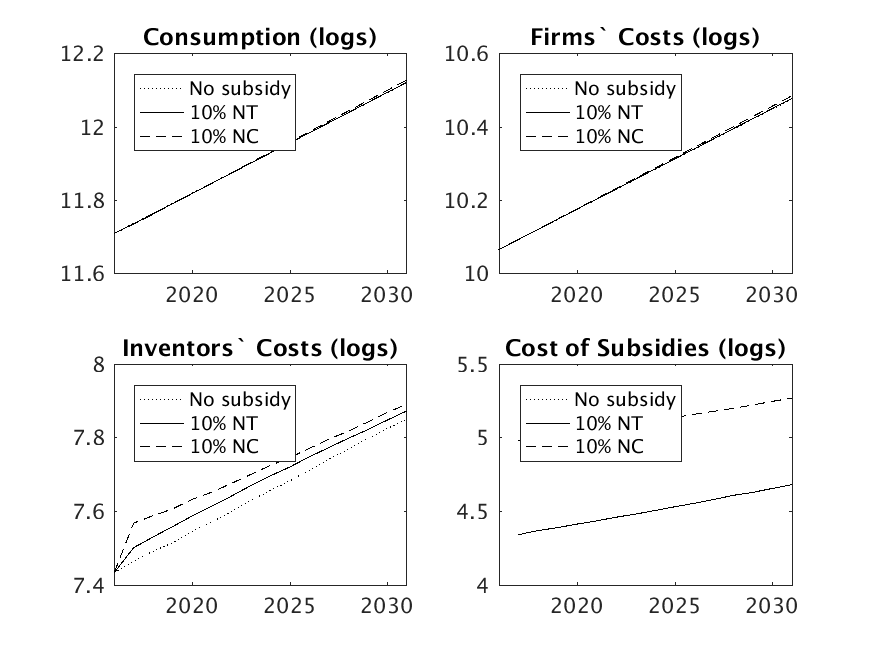
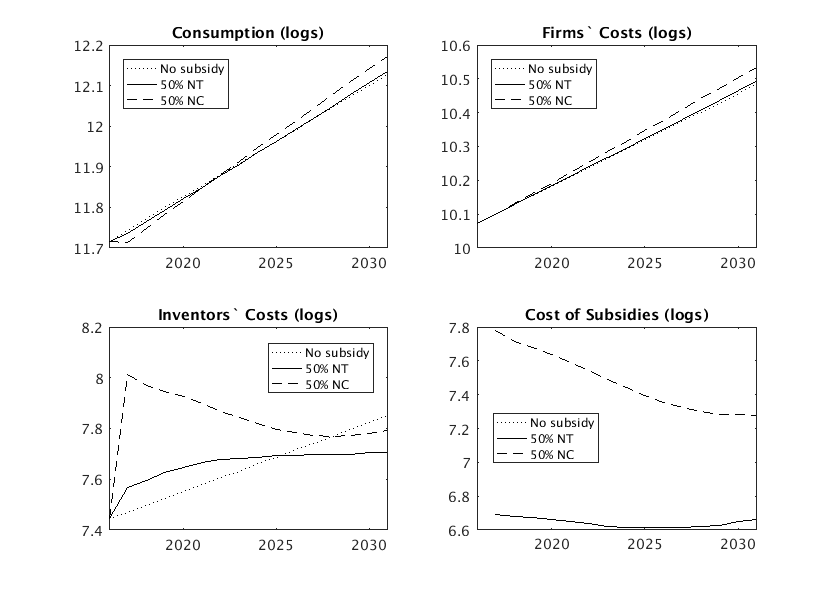
new figures for 15 years

diff --git a/simulations/consolidated/run_simulation.m b/simulations/consolidated/run_simulation.m
@@ -35,7 +35,7 @@ params = v2struct(etaH, etaM, etaL, tau, phi, lambda, kappa, xi, zeta, gamma, ep
 beg_inv = exp(6);       % number of inventors, chosen to match initial number of patents
 beg_year = 1836;        % beginning year
 Tbase = 180;            % number of periods to run baseline simulation
-Tsubs = 5;             % number of periods to run subsidy simulation
+Tsubs = 15;             % number of periods to run subsidy simulation
 Tmax = Tbase + Tsubs;
 
 %% RUN THE MODEL
@@ -258,14 +258,14 @@ saveas(gcf, 'files/figures/welfare_gains.png')
 
 % Summary of Economy with Subsidies
 
-index = find(subsidy_vals == .1);   % effect of a 10% subsidy
+index = find(subsidy_vals == .5);   % effect of a 50% subsidy
 index2 = index + length(subsidy_vals);
 substime = logical([zeros(Tbase-1,1); ones(Tsubs+1,1)]);
 
 figure(6)
 plot(periods(substime), growth(substime), ':k', periods(substime), growth_subs(substime,index), '-k', periods(substime), growth_subs(substime,index2), '--k')
 xlim([min(periods(substime)), max(periods(substime))])
-legend('No subsidy', '10% NT', '10% NC', 'location', 'Northwest')
+legend('No subsidy', '50% NT', '50% NC', 'location', 'Northwest')
 title('Rate of Growth')
 saveas(gcf, 'files/figures/growth_subs.png')
 
@@ -273,22 +273,22 @@ figure(7)
 subplot(2,2,1)
 plot(periods(substime), log(consumption(substime)), ':k', periods(substime), log(consumption_subs(substime,index)), '-k', periods(substime), log(consumption_subs(substime,index2)), '--k')
 xlim([min(periods(substime)), max(periods(substime))])
-legend('No subsidy', '10% NT', '10% NC', 'location','Northwest')
+legend('No subsidy', '50% NT', '50% NC', 'location','Northwest')
 title('Consumption (logs)')
 subplot(2,2,2)
 plot(periods(substime), log(firm_cost(substime)), ':k', periods(substime), log(firm_cost_subs(substime,index)), '-k', periods(substime), log(firm_cost_subs(substime,index2)), '--k')
 xlim([min(periods(substime)), max(periods(substime))])
-legend('No subsidy', '10% NT', '10% NC','location','Northwest')
+legend('No subsidy', '50% NT', '50% NC','location','Northwest')
 title('Firms` Costs (logs)')
 subplot(2,2,3)
 plot(periods(substime), log(inventor_cost(substime)), ':k', periods(substime), log(inventor_cost_subs(substime,index)), '-k', periods(substime), log(inventor_cost_subs(substime,index2)), '--k')
 xlim([min(periods(substime)), max(periods(substime))])
-legend('No subsidy', '10% NT', '10% NC','location','Northwest')
+legend('No subsidy', '50% NT', '50% NC','location','Northwest')
 title('Inventors` Costs (logs)')
 subplot(2,2,4)
 plot(periods(substime), log(policy_cost(substime)), ':k', periods(substime), log(policy_cost_subs(substime,index)), '-k', periods(substime), log(policy_cost_subs(substime,index2)), '--k')
 xlim([min(periods(substime)), max(periods(substime))])
-legend('No subsidy', '10% NT', '10% NC','location','Northwest')
+legend('No subsidy', '50% NT', '50% NC','location','Northwest')
 title('Cost of Subsidies (logs)')
 saveas(gcf, 'files/figures/aggregates_subs.png')
 
@@ -296,28 +296,28 @@ figure(8)
 subplot(2,2,1)
 plot(periods(substime), consumption_subs(substime,index) - consumption(substime), '-k', periods(substime), consumption_subs(substime,index2) - consumption(substime), '--k')
 xlim([min(periods(substime)), max(periods(substime))])
-legend('10% NT', '10% NC', 'location','Northwest')
+legend('50% NT', '50% NC', 'location','Northwest')
 title('Change in Consumption')
 subplot(2,2,2)
 plot(periods(substime), firm_cost_subs(substime,index) - firm_cost(substime), '-k', periods(substime), firm_cost_subs(substime,index2) - firm_cost(substime), '--k')
 xlim([min(periods(substime)), max(periods(substime))])
-legend('10% NT', '10% NC','location','Northwest')
+legend('50% NT', '50% NC','location','Northwest')
 title('Change in Firms` Costs')
 subplot(2,2,3)
 plot(periods(substime), inventor_cost_subs(substime,index) - inventor_cost(substime), '-k', periods(substime), inventor_cost_subs(substime,index2) - inventor_cost(substime), '--k')
 xlim([min(periods(substime)), max(periods(substime))])
-legend('10% NT', '10% NC','location','Northeast')
+legend('50% NT', '50% NC','location','Northeast')
 title('Change in Inventors` Costs')
 subplot(2,2,4)
 plot(periods(substime), policy_cost_subs(substime,index) - policy_cost(substime), '-k', periods(substime), policy_cost_subs(substime,index2) - policy_cost(substime), '--k')
 xlim([min(periods(substime)), max(periods(substime))])
-legend('10% NT', '10% NC','location','Northwest')
+legend('50% NT', '50% NC','location','Northwest')
 title('Change in Cost of Subsidies')
 saveas(gcf, 'files/figures/change_aggregates_subs.png')
 
 figure(9)
 plot(periods(substime), log(GDP(substime)), ':k', periods(substime), log(GDP_subs(substime,index)), '-k', periods(substime), log(GDP_subs(substime,index2)), '--k')
-legend('No subsidy', '10% NT', '10% NC','location','Northwest')
+legend('No subsidy', '50% NT', '50% NC','location','Northwest')
 title('GDP (logs)')
 xlabel('Year')
 xlim([min(periods(substime)), max(periods(substime))])
@@ -325,7 +325,7 @@ saveas(gcf, 'files/figures/GDP_subs.png')
 
 figure(10)
 plot(periods(substime), avg_quality(substime), ':k', periods(substime), avg_quality_subs(substime,index), '-k', periods(substime), avg_quality_subs(substime,index2), '--k')
-legend('No subsidy', '10% NT', '10% NC','location','Northwest')
+legend('No subsidy', '50% NT', '50% NC','location','Northwest')
 title('Average Product Quality')
 xlabel('Year')
 xlim([min(periods(substime)), max(periods(substime))])
@@ -335,27 +335,27 @@ figure(11)
 subplot(2,2,1)
 plot(patent_shares(substime,1),patent_shares(substime,2), ':k', patent_shares(substime,1),patent_shares_subs(substime,2,index), '-k',...
     patent_shares(substime,1),patent_shares_subs(substime,2,index2), '--k')
-legend('No subsidy', '10% NT', '10% NC','location','Northeast')
+legend('No subsidy', '50% NT', '50% NC','location','Northeast')
 title('Share of NT Patents')
 xlabel('Year')
 xlim([min(periods(substime)), max(periods(substime))])
 subplot(2,2,2)
 plot(patent_shares(substime,1),patent_shares(substime,3), ':k', patent_shares(substime,1),patent_shares_subs(substime,3,index), '-k',...
     patent_shares(substime,1),patent_shares_subs(substime,3,index2), '--k')
-legend('No subsidy', '10% NT', '10% NC','location','Northwest')
+legend('No subsidy', '50% NT', '50% NC','location','Northwest')
 title('Share of NC Patents')
 xlabel('Year')
 xlim([min(periods(substime)), max(periods(substime))])
 subplot(2,2,3)
 plot(patent_shares(substime,1),patent_shares(substime,4), ':k', patent_shares(substime,1),patent_shares_subs(substime,4,index), '-k',...
     patent_shares(substime,1),patent_shares_subs(substime,4,index2), '--k')
-legend('No subsidy', '10% NT', '10% NC','location','Southwest')
+legend('No subsidy', '50% NT', '50% NC','location','Southwest')
 title('Share of Reuse Patents')
 xlabel('Year')
 xlim([min(periods(substime)), max(periods(substime))])
 subplot(2,2,4)
 plot(periods(substime), techline_size(substime), ':k', periods(substime), techline_size_subs(substime,index), '-k', periods(substime), techline_size_subs(substime,index2), '--k')
-legend('No subsidy', '10% NT', '10% NC','location','Northwest')
+legend('No subsidy', '50% NT', '50% NC','location','Northwest')
 title('Size of the Technology Line')
 xlabel('Year')
 xlim([min(periods(substime)), max(periods(substime))])
